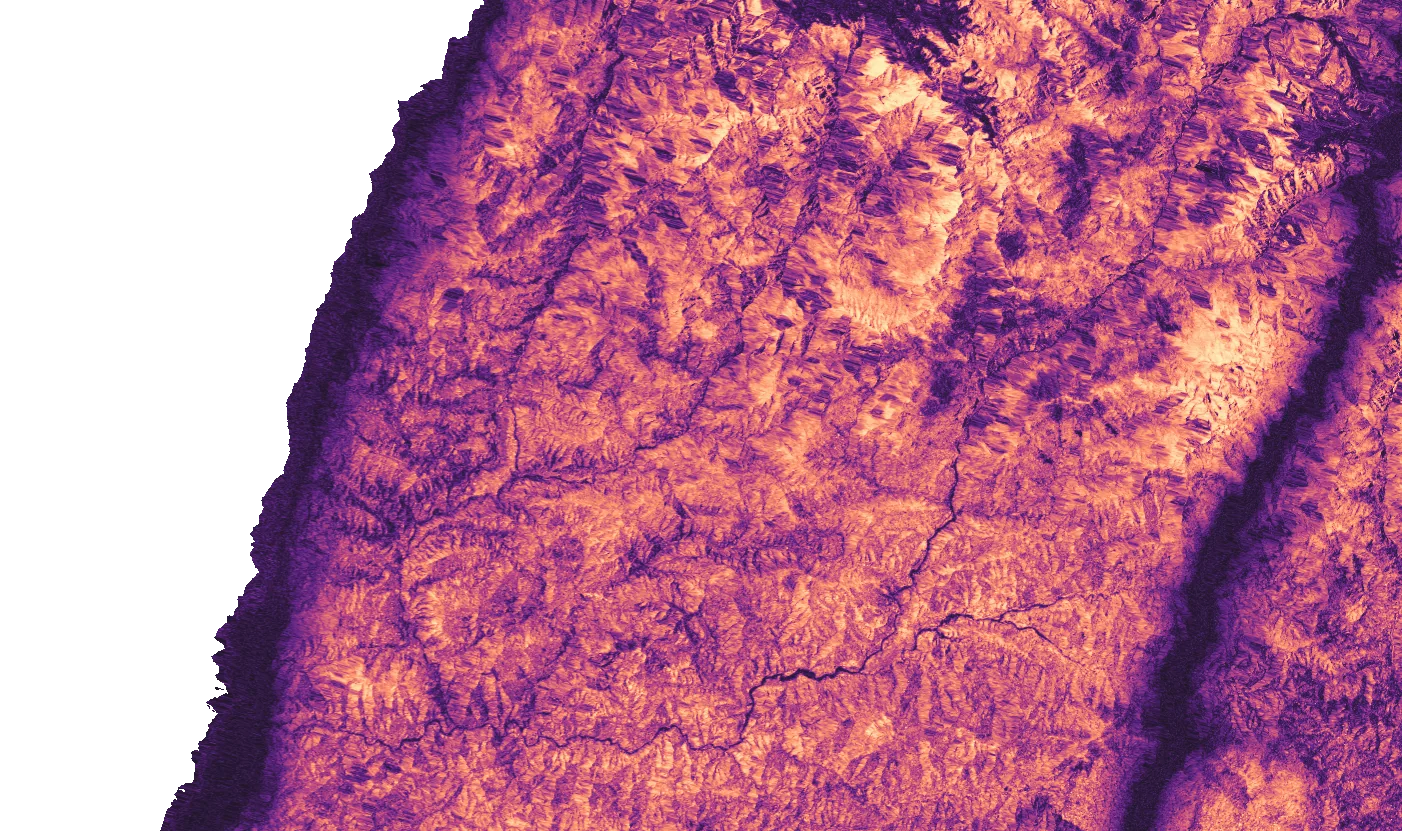
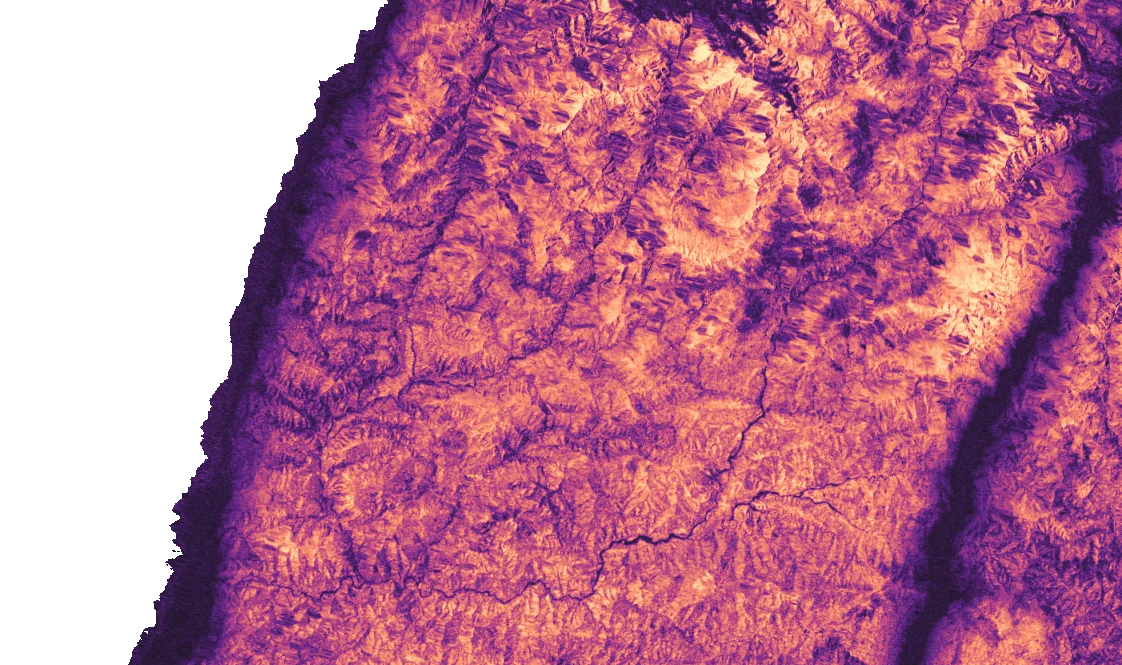
Rasuwa 3D: load on slow connections, with progress and Try again
Halve what the model needs at the start (1.6 MB instead of 3.4 MB): smaller
draped pictures, and the NISAR radar pictures load only when picked. Show how
much has arrived, say when the connection seems slow, and offer Try again if
a file fails.

diff --git a/frontend/src/components/terrain/Rasuwa3D.tsx b/frontend/src/components/terrain/Rasuwa3D.tsx
@@ -50,6 +50,36 @@ function loadImage(url: string) {
   })
 }
 
+// Reads a file and reports how much has arrived. `expected` stands in when the server sends no length.
+async function fetchBytes(url: string, expected: number, progress: (done: number, total: number) => void) {
+  const r = await fetch(url)
+  if (!r.ok) throw new Error(`Could not load ${url} (HTTP ${r.status})`)
+  const total = Number(r.headers.get('content-length')) || expected
+  if (!r.body) { const b = await r.arrayBuffer(); progress(b.byteLength, b.byteLength); return b }
+  const reader = r.body.getReader()
+  const parts: Uint8Array[] = []
+  let done = 0
+  for (;;) {
+    const { value, done: end } = await reader.read()
+    if (end) break
+    parts.push(value)
+    done += value.byteLength
+    progress(done, Math.max(total, done))
+  }
+  const out = new Uint8Array(done)
+  let at = 0
+  for (const p of parts) { out.set(p, at); at += p.byteLength }
+  return out.buffer
+}
+
+async function fetchImage(url: string, progress: (done: number, total: number) => void) {
+  const b = await fetchBytes(url, 0, progress)
+  const src = URL.createObjectURL(new Blob([b]))
+  try { return await loadImage(src) } finally { setTimeout(() => URL.revokeObjectURL(src), 0) }
+}
+
+const twice = <T,>(job: () => Promise<T>) => job().catch(() => job())
+
 function label(text: string, colour: string, size = 1) {
   const c = document.createElement('canvas')
   const g = c.getContext('2d')!
@@ -100,28 +130,45 @@ export function Rasuwa3D({ url, onExit }: { url: string; onExit: () => void }) {
   const [exag, setExag] = useState(1.5)
   const [spin, setSpin] = useState(false)
   const [missing, setMissing] = useState<string[]>([])
+  const [got, setGot] = useState<Record<string, [number, number]>>({})
+  const [slow, setSlow] = useState(false)
+  const [attempt, setAttempt] = useState(0)
 
-  // The model description, its heights and every picture
+  // The model description, then its heights and the pictures shown at the start. Radar pictures wait until they are picked.
+  // Every file counts its bytes so the reader sees progress on a slow connection, and is tried twice before giving up.
   useEffect(() => {
     let live = true
+    setModel(null); setHeights(null); setImages({}); setFailure(null); setMissing([]); setGot({}); setSlow(false)
     const fail = (e: Error) => { if (live) setFailure(e.message) }
+    const slowTimer = setTimeout(() => { if (live) setSlow(true) }, 25000)
+    const track = (id: string) => (done: number, total: number) => { if (live) setGot((g) => ({ ...g, [id]: [done, total] })) }
     fetch(assetUrl(url)).then((r) => { if (!r.ok) throw new Error(`3D model request failed with HTTP ${r.status}`); return r.json() as Promise<Model3D> })
       .then((md) => {
         if (!live) return
         setModel(md)
         setOn(Object.fromEntries(md.layers.filter((l) => l.group !== 'radar').map((l) => [l.id, l.on])))
-        fetch(assetUrl(md.heights)).then((r) => { if (!r.ok) throw new Error(`Heights request failed with HTTP ${r.status}`); return r.arrayBuffer() })
+        const heightsBytes = md.width * md.height * 2
+        twice(() => fetchBytes(assetUrl(md.heights), heightsBytes, track('heights')))
           .then((b) => { if (live) setHeights(Float32Array.from(new Int16Array(b))) }).catch(fail)
-        // Each picture arrives on its own and is tried twice, so one slow file never holds back the rest.
-        // Without the terrain picture there is no model; a missing map layer is only marked as not loaded.
-        ;[['base', md.base], ...md.layers.map((l) => [l.id, l.file])].forEach(([id, f]) => {
-          loadImage(assetUrl(f)).catch(() => loadImage(assetUrl(f)))
+        ;[['base', md.base], ...md.layers.filter((l) => l.group !== 'radar').map((l) => [l.id, l.file])].forEach(([id, f]) => {
+          twice(() => fetchImage(assetUrl(f), track(id)))
             .then((i) => { if (live) setImages((all) => ({ ...all, [id]: i })) })
             .catch((e: Error) => { if (!live) return; if (id === 'base') fail(e); else setMissing((m) => [...m, id]) })
         })
       }).catch(fail)
+    return () => { live = false; clearTimeout(slowTimer) }
+  }, [url, attempt])
+
+  // A radar picture loads the first time it is picked
+  useEffect(() => {
+    const l = model?.layers.find((x) => x.id === radar)
+    if (!l || images[l.id] || missing.includes(l.id)) return
+    let live = true
+    twice(() => fetchImage(assetUrl(l.file), (done, total) => { if (live) setGot((g) => ({ ...g, [l.id]: [done, total] })) }))
+      .then((i) => { if (live) setImages((all) => ({ ...all, [l.id]: i })) })
+      .catch(() => { if (live) setMissing((m) => [...m, l.id]) })
     return () => { live = false }
-  }, [url])
+  }, [radar, model, images, missing])
 
   // Scene, camera, lights and the render loop live as long as the panel
   useEffect(() => {
@@ -288,14 +335,23 @@ export function Rasuwa3D({ url, onExit }: { url: string; onExit: () => void }) {
     sc.camera.position.copy(target).add(new THREE.Vector3(-7, 9 * exag + 12, 11))
   }
 
+  // Progress counts only what the model needs before it can show: heights, terrain picture and the layers that start switched on
+  const startIds = ['heights', 'base', ...(model?.layers.filter((l) => l.group !== 'radar' && l.on).map((l) => l.id) ?? [])]
+  const loadedMb = startIds.reduce((t, id) => t + (got[id]?.[0] ?? 0), 0) / 1e6
+  const totalMb = Math.max(loadedMb, startIds.reduce((t, id) => t + (got[id]?.[1] ?? 0), 0) / 1e6, model ? (model.width * model.height * 2) / 1e6 : 0)
   const refs = model?.layers.filter((l) => l.group !== 'radar') ?? []
   const radars = model?.layers.filter((l) => l.group === 'radar') ?? []
   const shownRadar = radars.find((l) => l.id === radar)
   return (
     <div className="terrain3d">
       <div className="terrain-canvas" ref={host} role="img" aria-label={`3D model of the ${model?.name ?? 'Rasuwa corridor'}, with UNOSAT maps and NISAR radar layers draped over the terrain`} />
-      {(!heights || !images.base) && !failure && <p className="terrain-status">Building the 3D model…</p>}
-      {failure && <p className="map-alert" role="alert">{failure}</p>}
+      {(!heights || !images.base) && !failure && (
+        <div className="terrain-status" role="status">
+          <p>Loading the 3D model{loadedMb > 0 ? `: ${loadedMb.toFixed(1)} of about ${totalMb.toFixed(1)} MB` : '…'}</p>
+          {slow && <><p className="small">This is taking a while because the connection to the site seems slow. It will keep loading, or you can try again.</p><button className="ghost" onClick={() => setAttempt((a) => a + 1)}>Try again</button></>}
+        </div>
+      )}
+      {failure && <div className="map-alert" role="alert"><p>{failure}</p><p className="small">The 3D files could not be downloaded. Check the connection and try again.</p><button className="ghost" onClick={() => setAttempt((a) => a + 1)}>Try again</button></div>}
       <section className="terrain-panel" aria-label="3D model controls">
         <p className="label">3D model</p>
         <h2>Rasuwa corridor in 3D</h2>
@@ -324,6 +380,7 @@ export function Rasuwa3D({ url, onExit }: { url: string; onExit: () => void }) {
             {radars.map((l) => <button key={l.id} role="tab" aria-selected={radar === l.id} className={radar === l.id ? 'on' : ''} onClick={() => setRadar(l.id)}>{l.id.replace('coherence-t', 'Track ')}</button>)}
           </div>
           {shownRadar && missing.includes(shownRadar.id) && <p className="muted small" role="status">This radar picture did not load. Reopen 3D to try again.</p>}
+          {shownRadar && !images[shownRadar.id] && !missing.includes(shownRadar.id) && <p className="muted small" role="status">Loading the radar picture{got[shownRadar.id] ? ` (${Math.round((100 * got[shownRadar.id][0]) / Math.max(1, got[shownRadar.id][1]))}%)` : '…'}</p>}
           {shownRadar && <div className="model-layers"><p className="small">{shownRadar.name} <EvidenceTag kind={shownRadar.evidence} compact /></p>
             <p className="muted small">Bright: the ground stayed the same between the two passes. Dark: it changed, or it is water or radar shadow. This pair spans the 26 August event, so a dark patch alone does not say what happened there.</p>
             {shownRadar.maturity && <p className="muted small">Product maturity: {shownRadar.maturity}.</p>}

diff --git a/frontend/src/styles/app.css b/frontend/src/styles/app.css
@@ -608,6 +608,10 @@ pre { font: 10.5px/1.4 var(--code); white-space: pre-wrap; color: var(--muted); 
 .terrain-canvas:active { cursor: grabbing; }
 .terrain-canvas canvas { display: block; }
 .terrain-status { position: absolute; z-index: 4; left: 50%; top: 45%; transform: translateX(-50%); color: var(--muted); }
+.terrain-status { display: flex; flex-direction: column; align-items: center; gap: 8px; max-width: 360px; text-align: center; }
+.terrain-status .small { font-size: 12px; }
+.terrain3d .map-alert { display: flex; flex-direction: column; gap: 6px; align-items: flex-start; }
+@media (max-width: 980px) { .three-on .map-foot { display: none; } }
 .terrain-panel { position: absolute; top: 88px; right: 12px; bottom: 12px; width: 368px; overflow-y: auto; display: flex; flex-direction: column; gap: 10px; padding: 18px 20px 12px; border-radius: var(--radius); font-size: 13px; scrollbar-width: thin; scrollbar-color: var(--grey) transparent; }
 .terrain-panel h2 { font: 400 32px/1.02 var(--serif); letter-spacing: -.02em; }
 .terrain-panel .ghost { align-self: flex-start; }

diff --git a/processing/scripts/prepare_rasuwa_3d.py b/processing/scripts/prepare_rasuwa_3d.py
@@ -24,7 +24,7 @@ PUBLIC = ROOT / "frontend/public/data"
 OUT = PUBLIC / "terrain/rasuwa-2026"
 CRS = "EPSG:32645"  # UTM 45N, the same grid the NISAR products use
 GRID_M = 120  # spacing of the 3D mesh
-IMG_M = 40  # pixel size of the draped pictures
+IMG_M = 50  # pixel size of the draped pictures: sharp enough at this scale, and small enough for slow connections
 
 m = json.loads((PUBLIC / "manifests/manifest.json").read_text(encoding="utf-8"))
 L = {l["id"]: l for l in m["layers"]}
@@ -69,7 +69,7 @@ stops = np.array([300, 900, 1600, 2600, 3600, 4600, 5400, 6500])
 cols = np.array([[96, 128, 76], [120, 146, 86], [150, 156, 104], [160, 146, 112], [146, 128, 108], [150, 144, 140], [214, 218, 224], [246, 248, 252]], float)
 tint = np.stack([np.interp(d, stops, cols[:, k]) for k in range(3)], -1)
 base = np.clip(tint * (0.35 + 0.75 * shade[..., None]), 0, 255).astype("uint8")
-Image.fromarray(base).save(OUT / "base.jpg", quality=86)
+Image.fromarray(base).save(OUT / "base.jpg", quality=80, optimize=True, progressive=True)
 
 
 def vector_png(layer_id, name, color, opacity, line_px=0):
